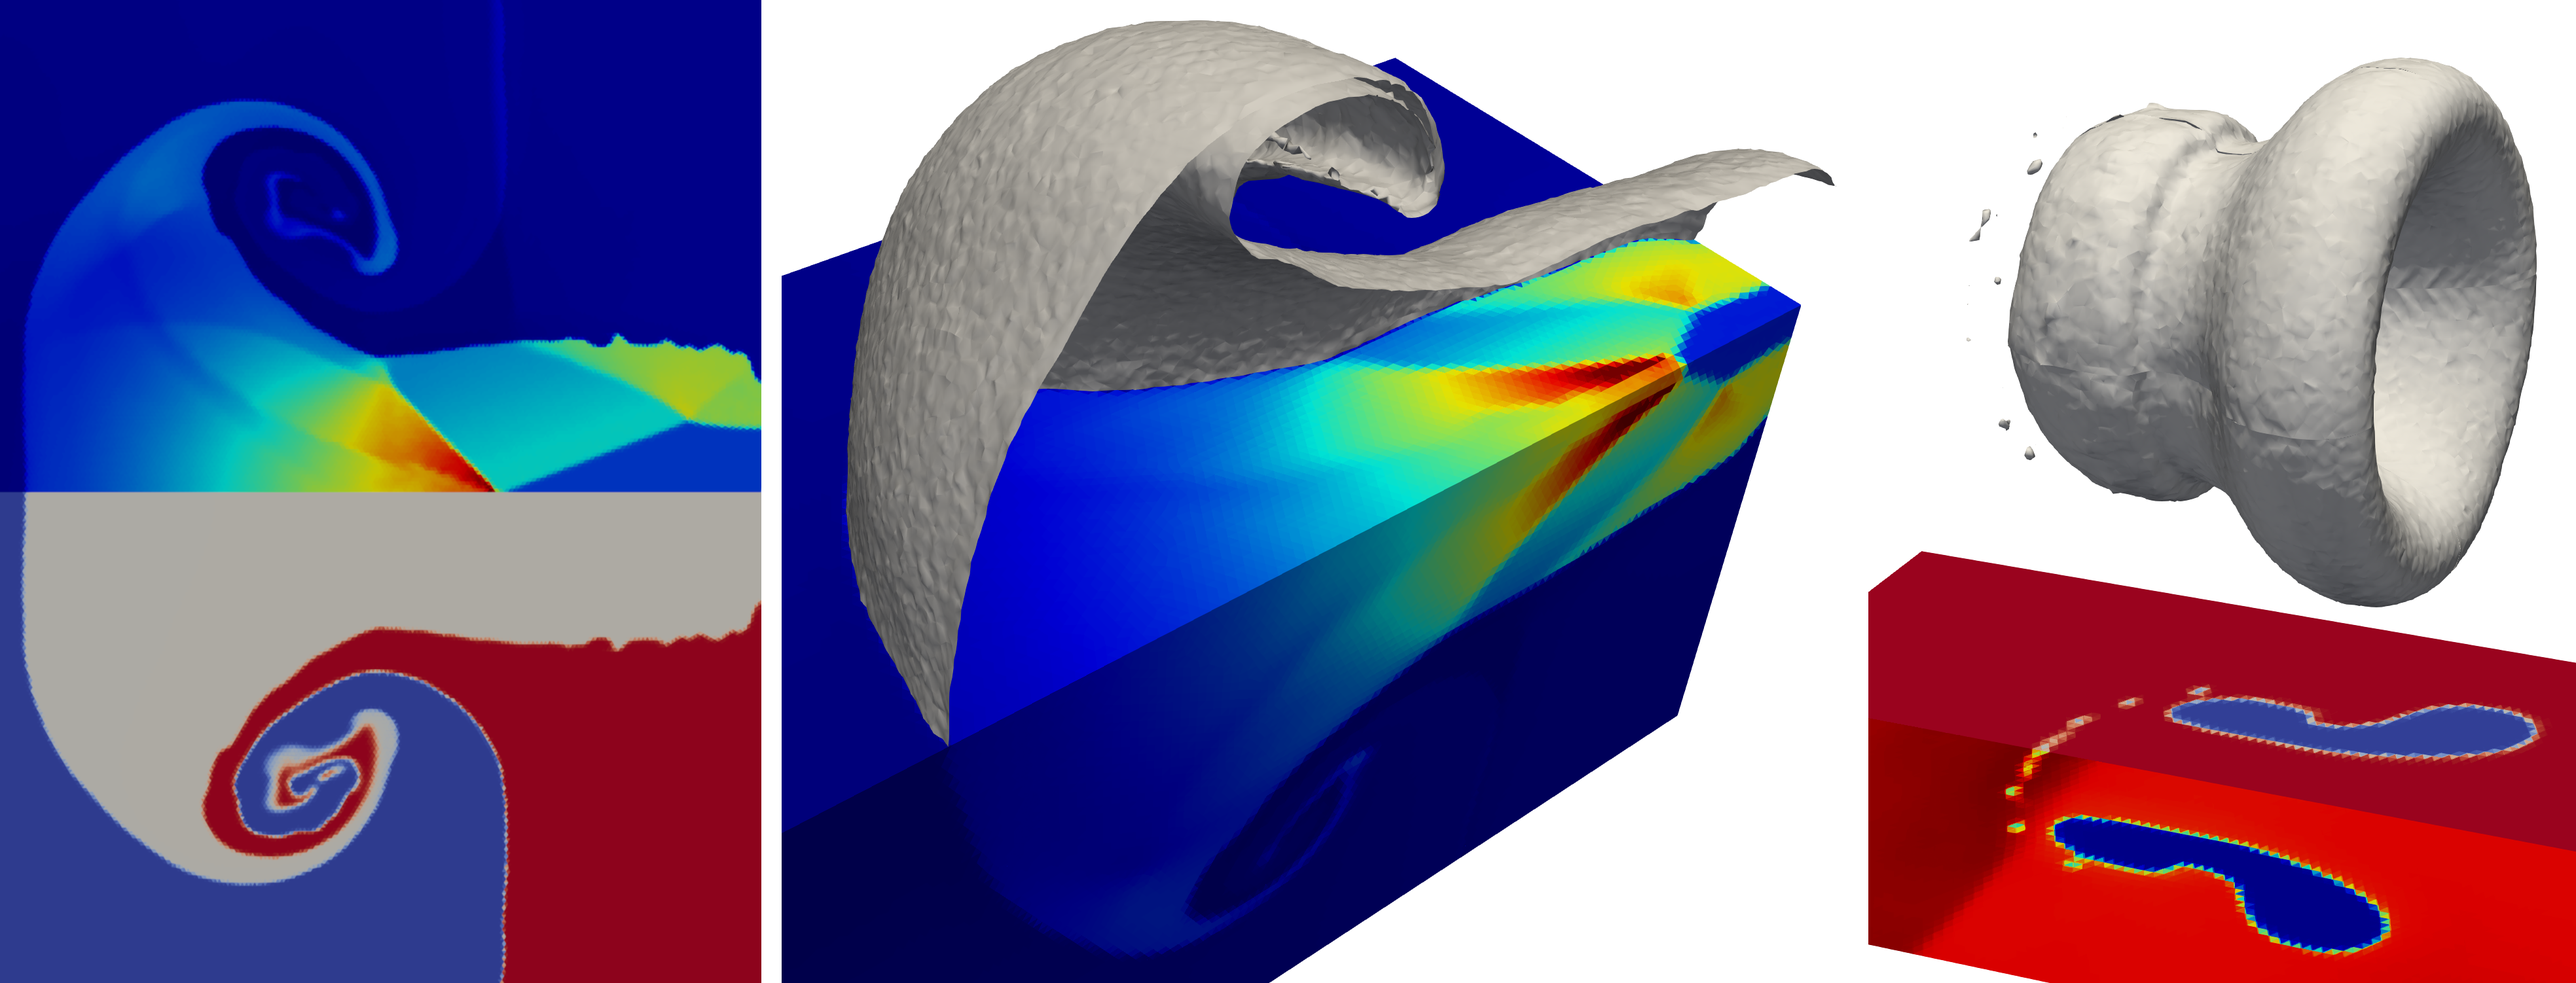
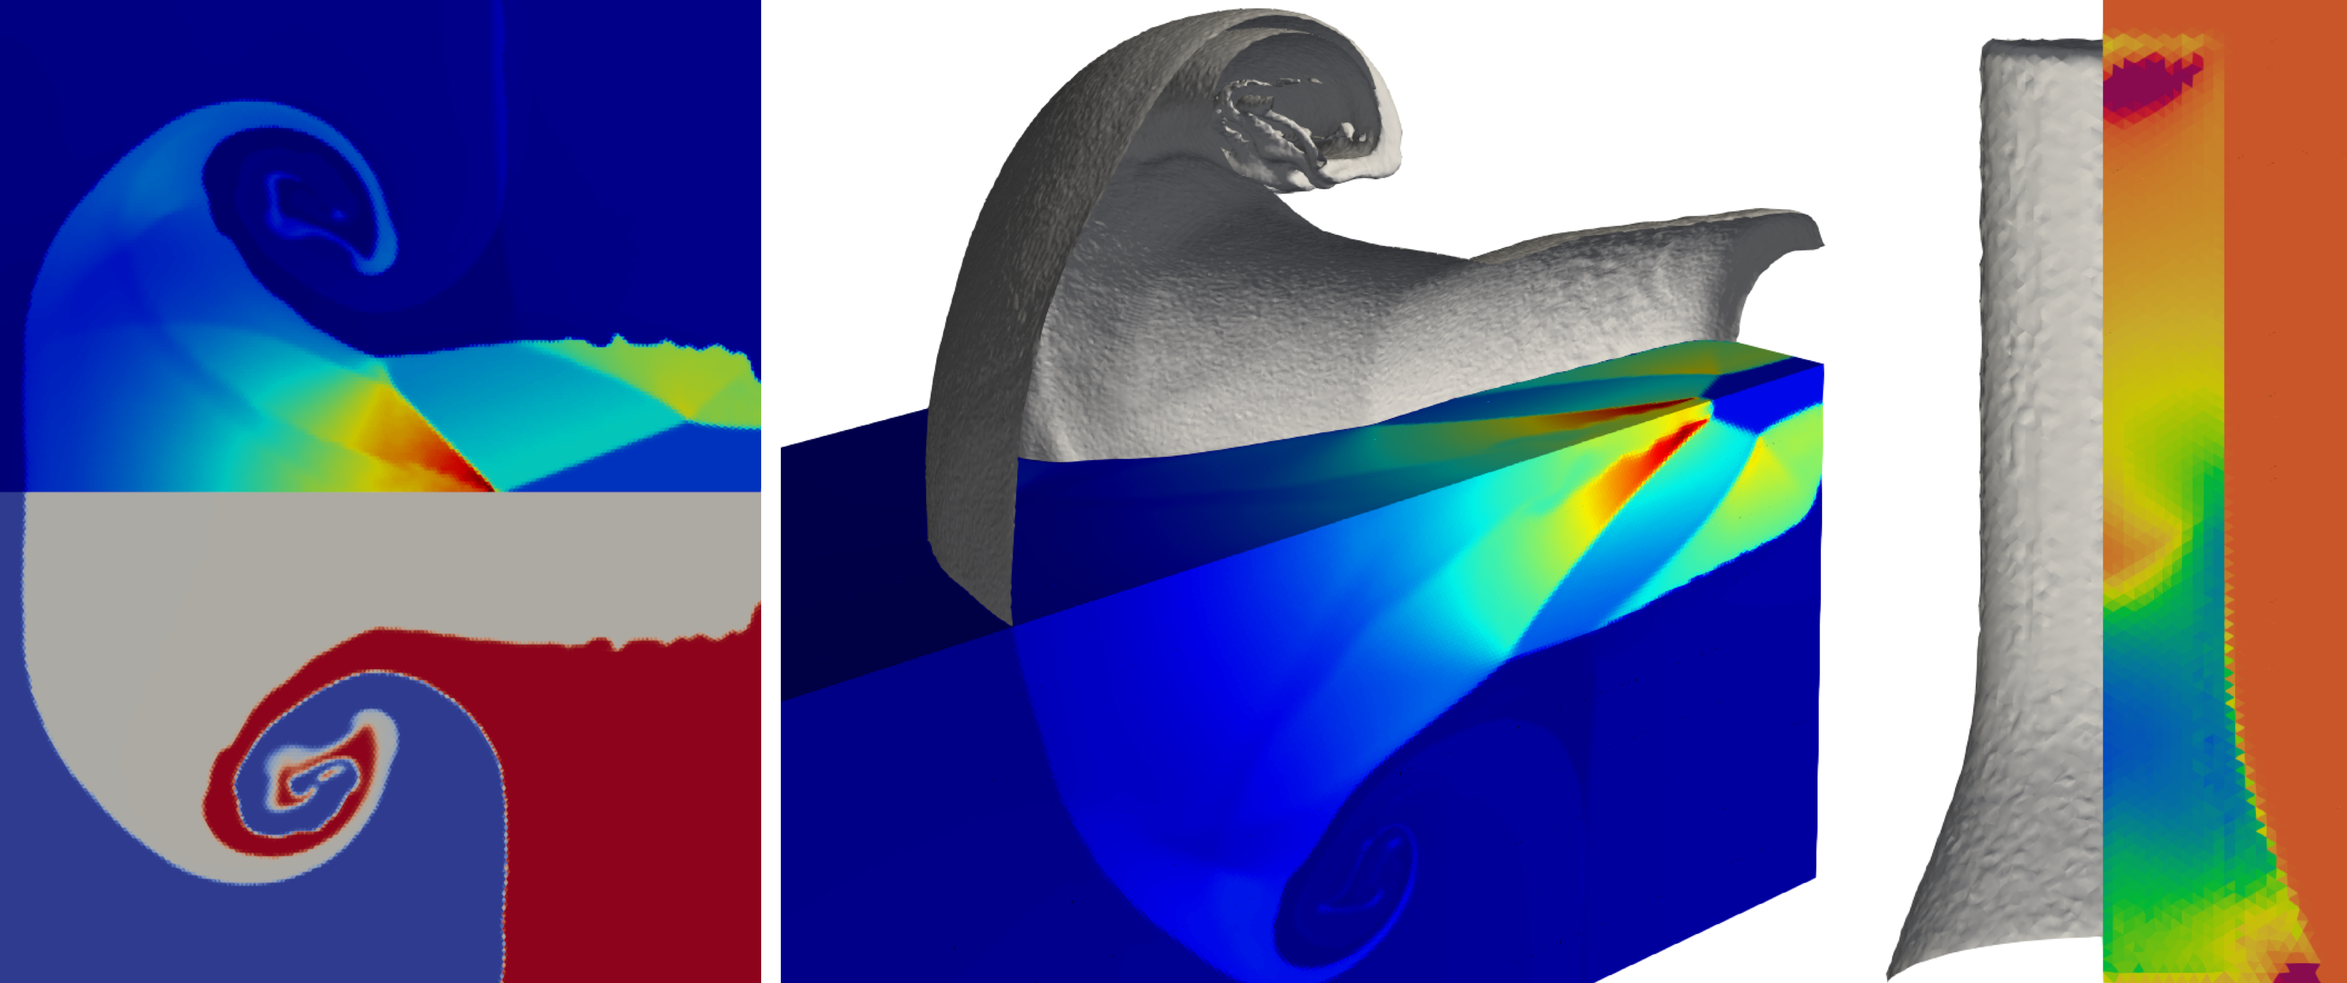
another stray semicolon, and docs updates

diff --git a/src/Inciter/FV.hpp b/src/Inciter/FV.hpp
@@ -162,7 +162,7 @@ class FV : public CBase_FV {
     const tk::Fields& solution() const { return m_u; }
 
     //! Compute left hand side - no-op for FV
-    void lhs() {};
+    void lhs() {}
 
     //! Unused in FV
     void resized() {}
